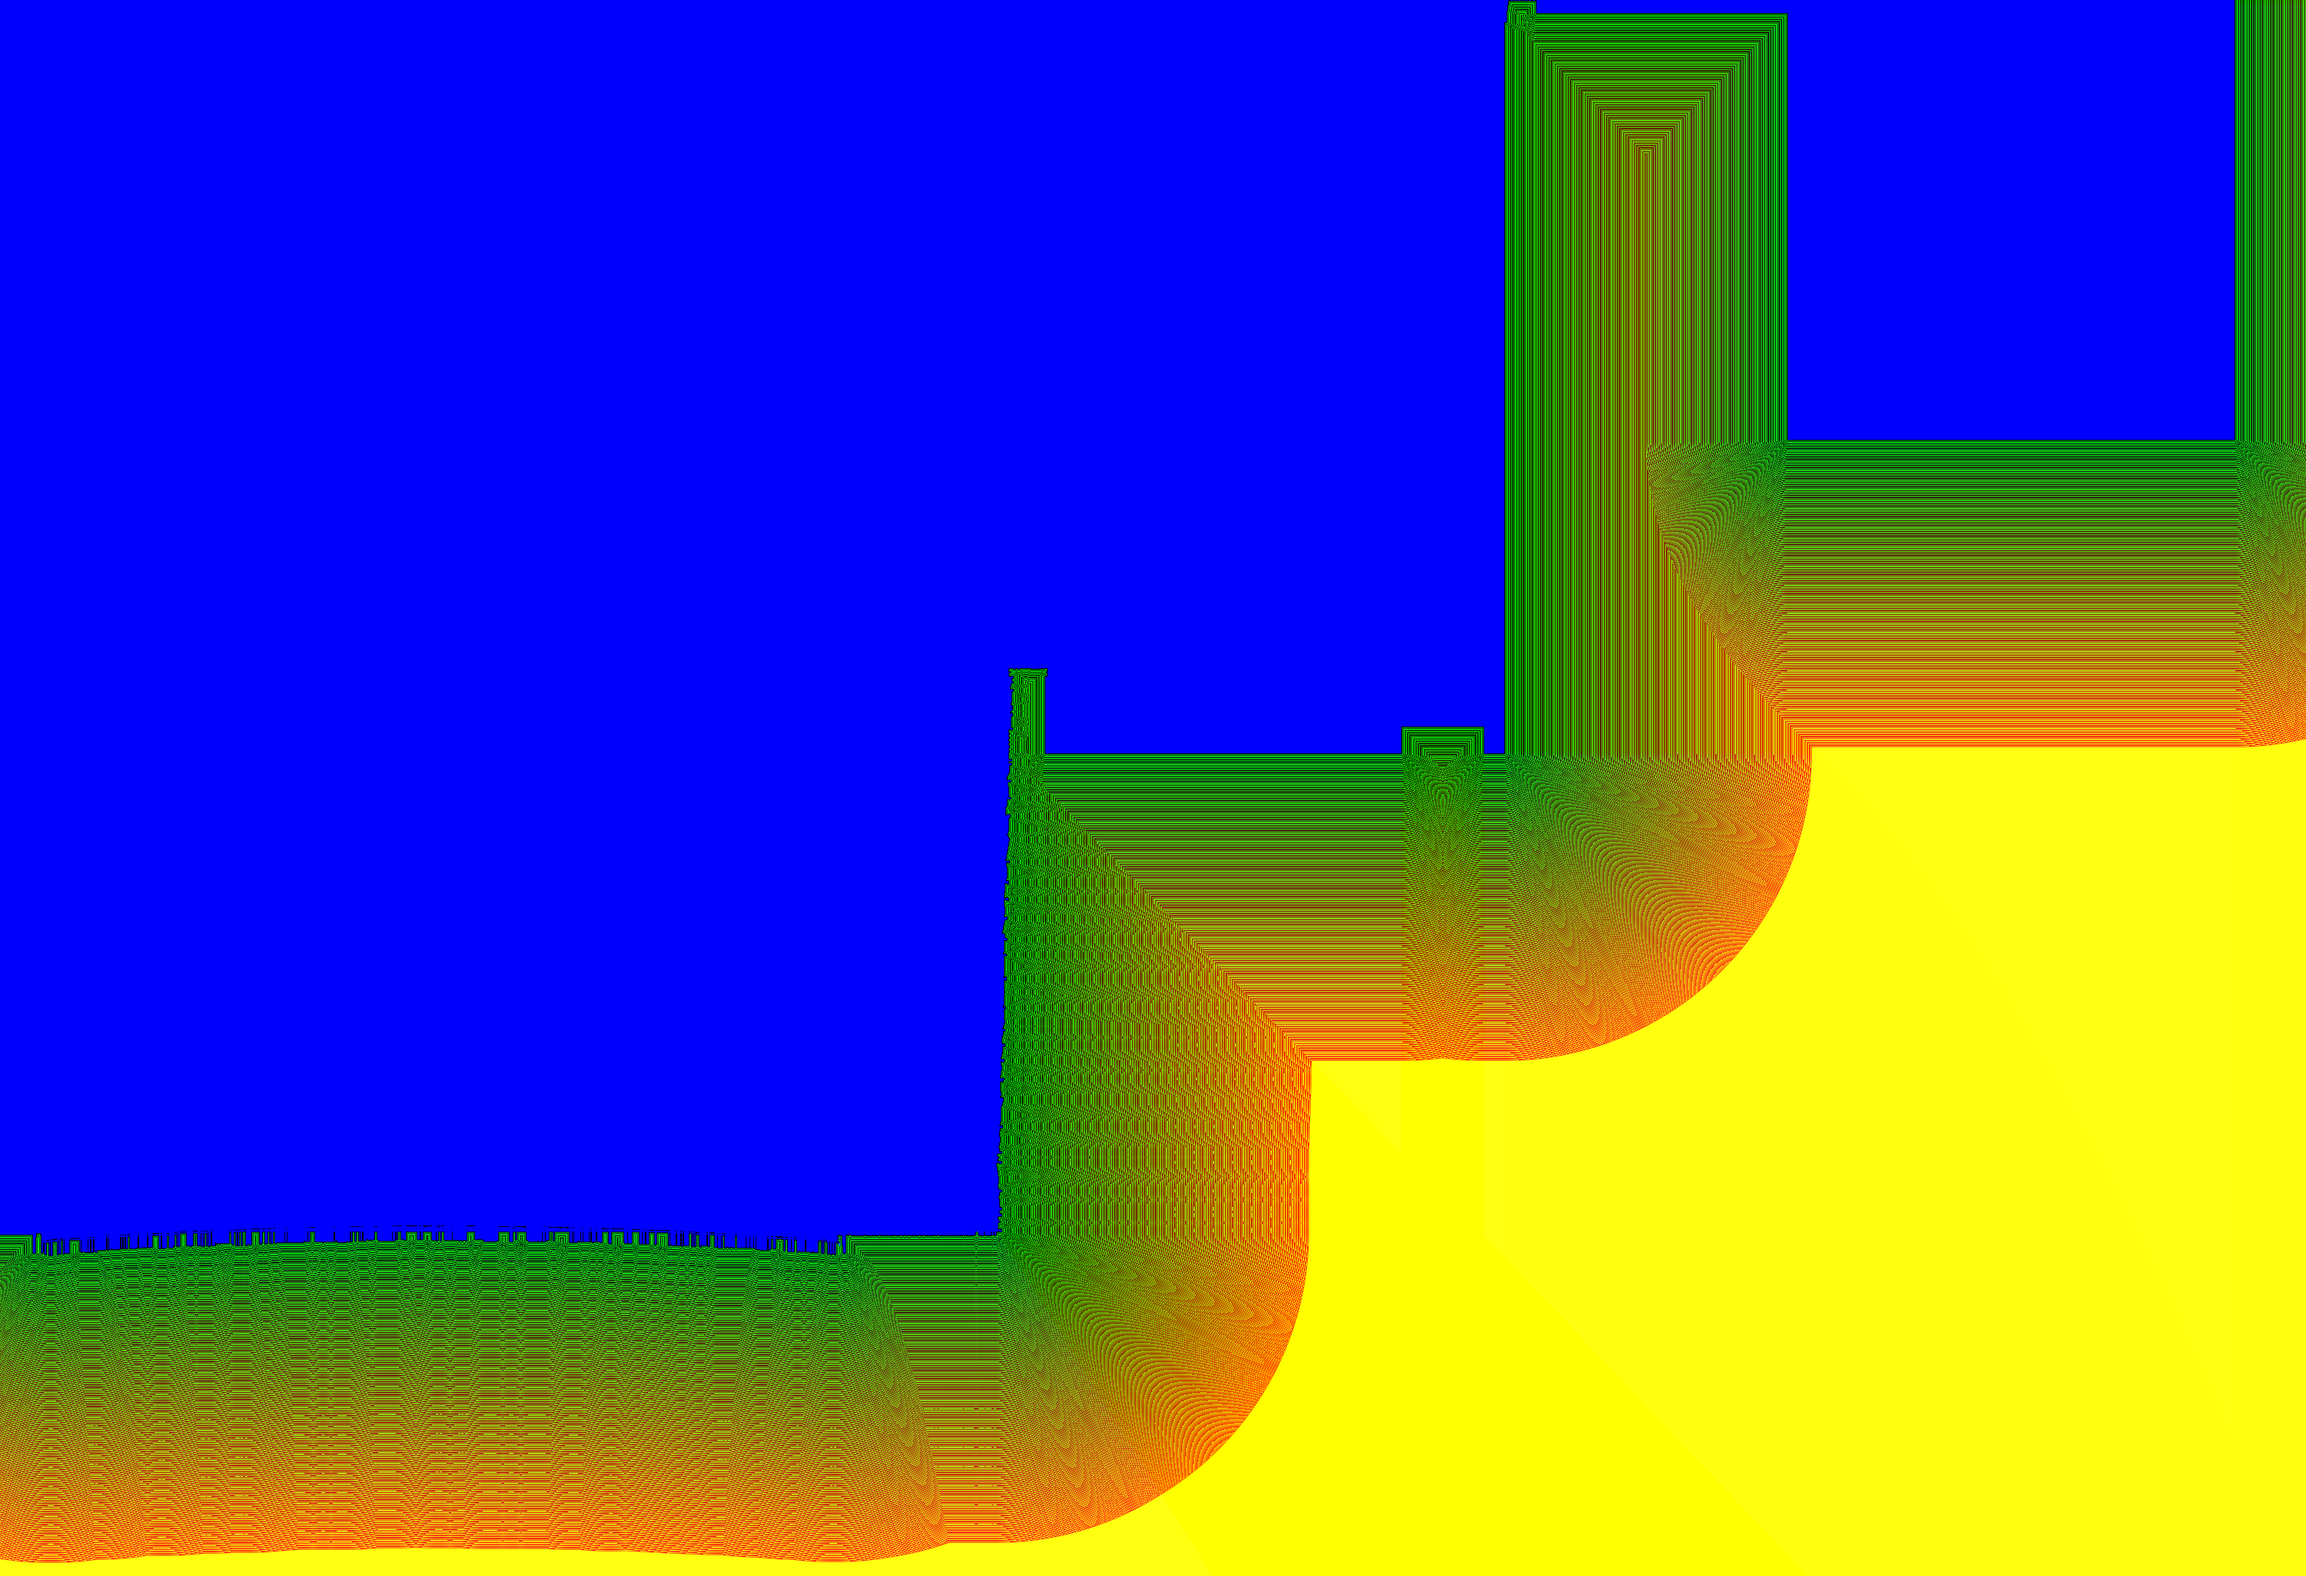
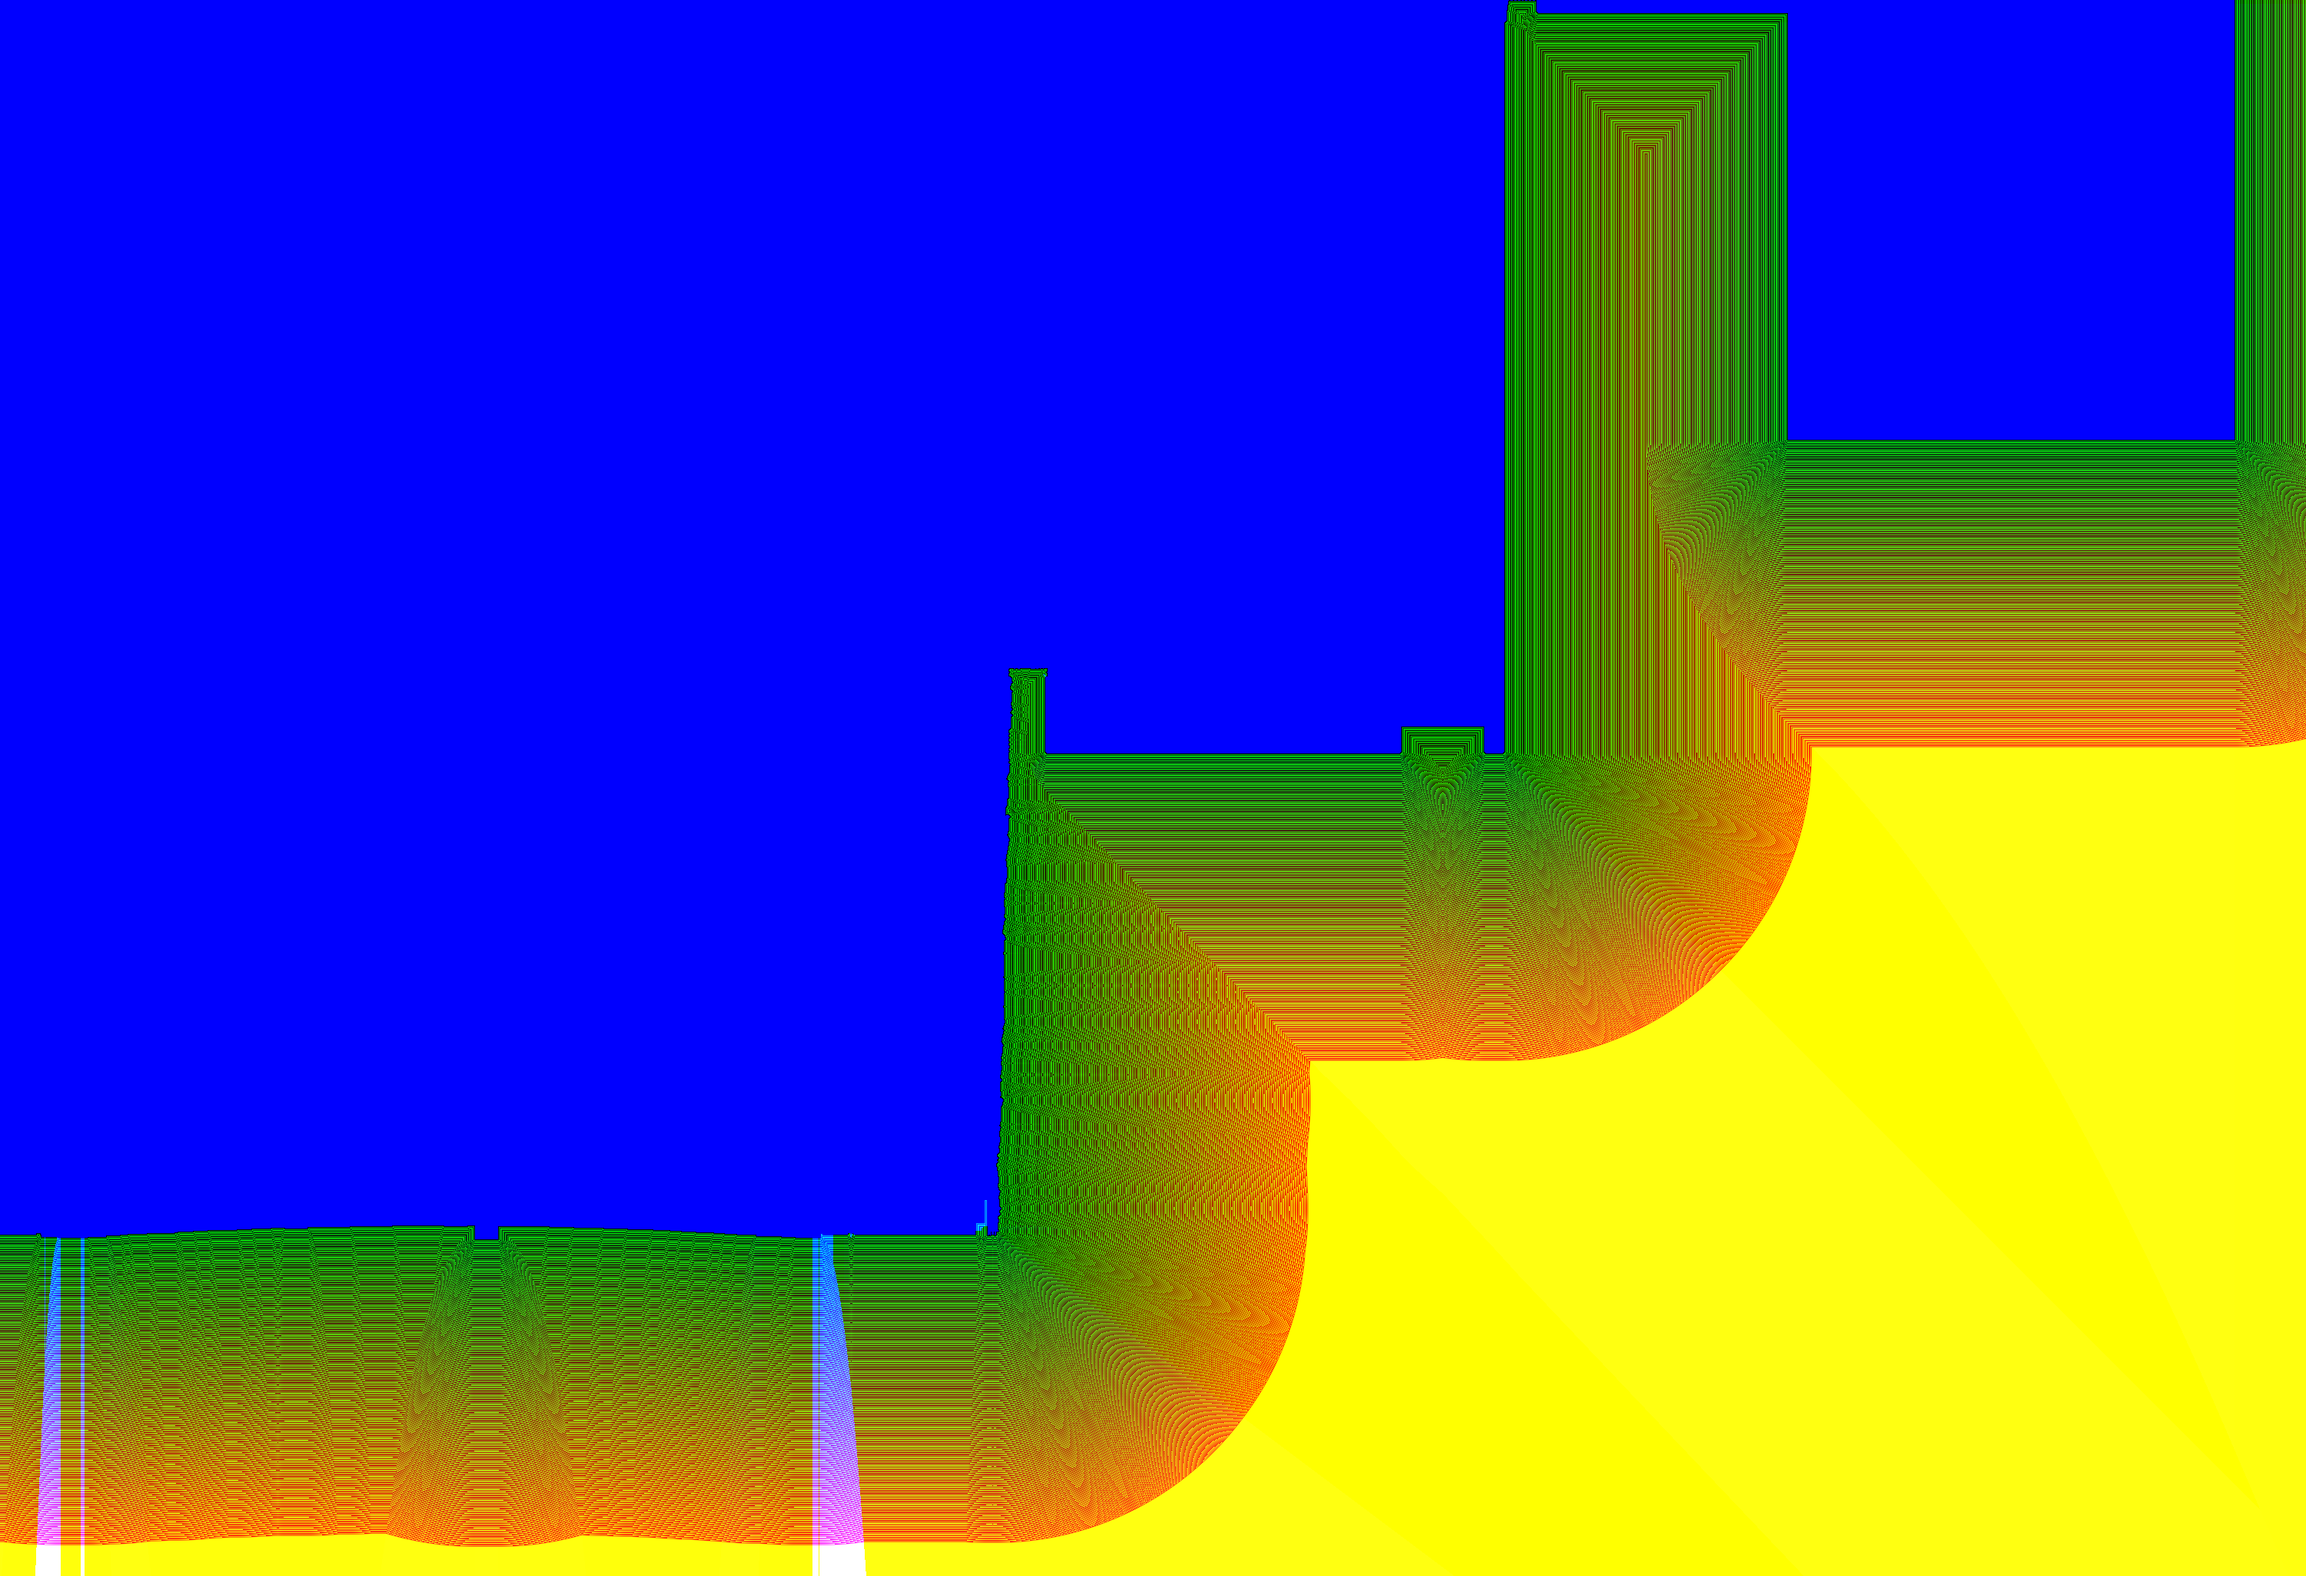
Main preset takes the author's tuned settings; bold section line (ragged on the wall, clean on the street); sett joints filled in the cut

Changed region(s): [[0.0, 0.4371, 0.589, 1.0], [0.589, 0.4683, 0.806, 0.6868], [0.651, 0.0, 0.682, 0.0312]]

diff --git a/shader.js b/shader.js
@@ -154,7 +154,7 @@ void main(){
   vec3 paper = cPaper*(0.985 + 0.03*(vn(P,.35,90)*.6 + vn(P,2.5,91)*.4));
   if(P.x<0.||P.y<0.||P.x>uSheetMM.x||P.y>uSheetMM.y){ outColor = vec4(cPaper*0.82,1.); return; }
   vec2 o = obl(P); vec2 uv = tuv(o);
-  float inkG=0., inkC=0., inkV=0., inkH=0., inkE=0.; vec3 hotCol = cAccent; float washA = 0.; vec3 washC = cAccent;
+  float inkG=0., inkC=0., inkV=0., inkH=0., inkE=0., inkL=0.; vec3 hotCol = cAccent; float washA = 0.; vec3 washC = cAccent;
   bool cov=false, cut=false, veg=false; int c=-1; float T=uTa, d=0., z=0., svf=1.;
   if(inside(uv)){
     int fl = flags_at(uv); cov = (fl&1)!=0; cut = (fl&2)!=0; veg = (fl&4)!=0;
@@ -323,11 +323,26 @@ void main(){
         if(((f2&2)!=0) != cut) cedge = 1.;
       }
     }
+    // the section line: a bold continuous contour where the cut meets anything that is not cut (air included)
+    float cutL = 0.;
+    if(cut && pCutLine > 0.){
+      float cr = max(pCutLine*.16*uScale/1000., tex_px*.7); float n = 0.;
+      for(int k=0;k<12;k++){
+        float a = float(k)*PI/6.; vec2 u2 = tuv(o + cr*vec2(cos(a), sin(a)));
+        vec2 u3 = tuv(o + .55*cr*vec2(cos(a+.26), sin(a+.26)));
+        int bit = (c==11||c==12||c==13||c==14||c==19||c==18)? 8 : 2;      // setts & paving: smoothed silhouette; wall: raw ragged cut
+        n += ((flags_at(u2)&bit)==0 ? 1. : 0.) + ((flags_at(u3)&bit)==0 ? 1. : 0.);
+      }
+      cutL = clamp(n/2.5, 0., 1.);
+      if(isSoil(c) && z < -0.3) cutL = 0.;
+    }
+    bool settZone = (c==11||c==12||c==13||c==14||c==18||c==19) && (flags_at(uv)&8)!=0;
+    if(settZone){ edge = 0.; cedge = 0.; }
     if(cut && isSoil(c)) { edge *= 0.; }
     if(cut && isSoil(c) && z < -0.3) cedge *= 0.;
     if(veg){ inkV = max(inkV, edge*.8); edge = 0.; }
     inkG = max(inkG, edge*.85*fade*step(.001,pLines));
-    inkC = max(inkC, cedge*step(.001,pCutLine)*1.);
+    inkL = max(inkL, cutL);
   } else if(inside(uv) && hHalo > 0.){
     // ------------------------------------------------ air: heat rings from warm surfaces nearby
     vec3 a = texture(tAir,uv).rgb;
@@ -368,7 +383,7 @@ void main(){
     float kind = cut? 0.75 : (veg? 0.5 : 0.25);
     outColor = vec4(floor(q/256.)/255., mod(q,256.)/255., kind, 1.); return;
   }
-  inkG*=kf; inkC*=kf; inkV*=kf; inkH*=kf; inkE*=kf; washA*=kf;
+  inkG*=kf; inkC*=kf; inkV*=kf; inkH*=kf; inkE*=kf; inkL*=kf; washA*=kf;
   // ---------------------------------------------------------- composite
   vec3 inkCol = mix(cInk, hotCol, hInk);          // thermal ink: the stroke colour is the temperature
   vec3 cutCol = mix(cCut, hotCol, hCut);
@@ -385,6 +400,7 @@ void main(){
     col *= mix(vec3(1.), inkCol/cPaper, clamp(inkG,0.,1.));
     col *= mix(vec3(1.), cutCol/cPaper, clamp(inkC,0.,1.));
     col *= mix(vec3(1.), mix(cCut, hotCol, .35*hCut)/cPaper, clamp(inkE,0.,1.));
+    col *= mix(vec3(1.), cCut/cPaper, clamp(inkL,0.,1.));
     vec3 hc = hIso>0.||hDots>0.||hHalo>0.? mix(cAccent, hotCol, step(.5, hInk+hHalo*0.)) : cAccent;
     col *= mix(vec3(1.), hotCol/cPaper, clamp(inkH,0.,1.));
   } else {
@@ -393,6 +409,7 @@ void main(){
     col = mix(col, inkCol, clamp(inkG,0.,1.));
     col = mix(col, cutCol, clamp(inkC,0.,1.));
     col = mix(col, mix(cCut, hotCol, .35*hCut), clamp(inkE,0.,1.));
+    col = mix(col, cCut, clamp(inkL,0.,1.));
     col = mix(col, hotCol, clamp(inkH,0.,1.));
   }
   col *= (1. - pGrain*.05) + pGrain*.05*vn(P,.12,92)*2.;

diff --git a/params.js b/params.js
@@ -112,10 +112,11 @@ const NIGHT = { dark: true, cPaper: "#1d1c1a", cInk: "#d8d1c3", cCut: "#cfc6b6",
 const P = (name, note, o) => ({ name, note, o });
 export const PRESETS = [
   P("★ Main · banded wall, woven cut", "The working version: the wall and ground beyond in flat bands of heat (after Fisk's meander maps); the cut takes the smooth heat gradient and palette of 'Weave': warm at the sunlit face, cool in the core.",
-    { style: "3", hInk: 1, hPost: 7, hWash: 0.35, lines: 0.7, seam: 0.6, spacing: 0.9, cPaper: "#f4efe2",
+    { style: "3", hInk: 1, hPost: 7, hWash: 0.35, lines: 0.7, cPaper: "#f4efe2",
       r0: "#6d9bb5", r1: "#a9c9a4", r2: "#e9dcae", r3: "#e8a06a", r4: "#c65a5a", cVeg: "#7fa27a", grain: 0.8, font: "serif",
-      cutStyle: "3", hCut: 1, cutSmooth: true, cutSeams: false, cutRampOwn: true,
-      offZ: 0.13, topClip: 83, stripY: 440, storyY: 330 }),
+      cutStyle: "0", hCut: 1, cutSmooth: true, cutSeams: false, cutRampOwn: true,
+      spacing: 1.06, contrast: 1.06, seam: 1.05, lines: 1.05, cutDensity: 1.06, cutLine: 2.44, earthFade: 1.1,
+      offZ: 1.1, topClip: 61, edgeFade: 28, focusSoft: 8.75, stripY: 440, storyY: 330 }),
   P("Thermal ink", "The colour of every stroke is the temperature of that surface: red is hotter than the air, blue is cooler, graphite is the same as the air.", {}),
   P("Graphite & ember", "A graphite drawing; red wash and stipple only where a surface is hotter than the air.",
     { hInk: 0, hWash: 0.16, hDots: 0.8, hCut: 0.6, hTmin: 0, hTmax: 16 }),
